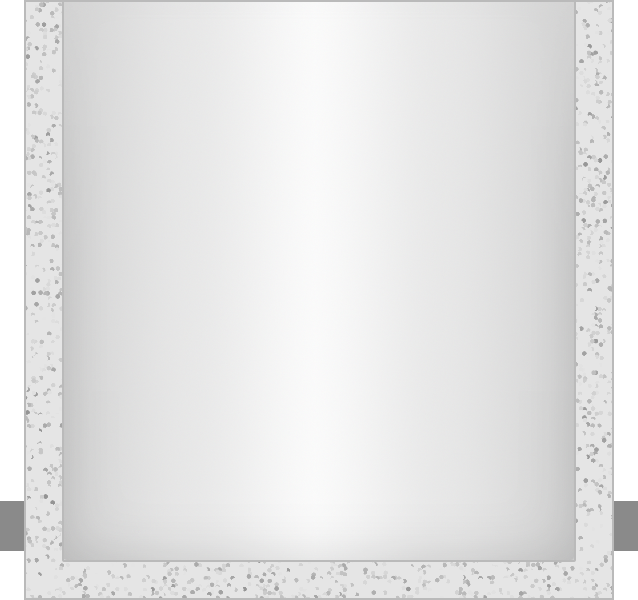
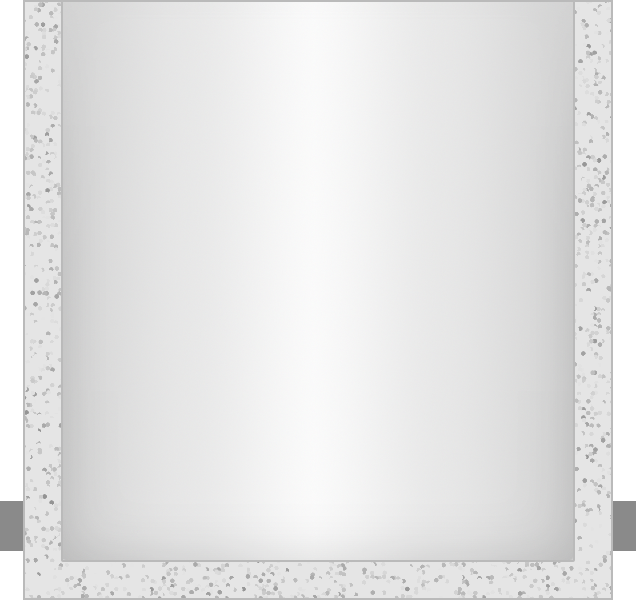
Draggable tank lid

diff --git a/states-of-matter/src/js/views/particle-tank.js b/states-of-matter/src/js/views/particle-tank.js
@@ -17,8 +17,26 @@ define(function(require) {
      */
     var ParticleTankView = PixiView.extend({
 
+        events: {
+            'touchstart      .lid': 'dragStart',
+            'mousedown       .lid': 'dragStart',
+            'touchmove       .lid': 'drag',
+            'mousemove       .lid': 'drag',
+            'touchend        .lid': 'dragEnd',
+            'mouseup         .lid': 'dragEnd',
+            'touchendoutside .lid': 'dragEnd',
+            'mouseupoutside  .lid': 'dragEnd'
+        },
+
         initialize: function(options) {
+            options = _.extend({
+                lidDraggable: true
+            }, options);
+
             this.simulation = options.simulation;
+            this.lidDraggable = options.lidDraggable;
+
+            this._dragOffset = new PIXI.Point();
 
             this.initGraphics();
 
@@ -42,12 +60,16 @@ define(function(require) {
         },
 
         initLid: function() {
-            this.lidYRange = range({ min: -20, max: -20 - 255  });
+            this.lidYRange = range({ max: -20, min: -20 - 255  });
 
             this.lid = Assets.createSprite(Assets.Images.TANK_LID);
             this.lid.anchor.x = 0.5;
             this.lid.anchor.y = 1;
-            this.lid.y = this.lidYRange.max;
+            this.lid.y = this.lidYRange.min;
+            if (this.lidDraggable) {
+                this.lid.buttonMode = true;
+                this.lid.defaultCursor = 'ns-resize';
+            }
 
             this.displayObject.addChild(this.lid);
         },
@@ -55,7 +77,7 @@ define(function(require) {
         updateLidPosition: function() {
             var relativeHeight = this.simulation.get('particleContainerHeight') / Constants.CONTAINER_BOUNDS.height;
             
-            this.lid.y = this.lidYRange.lerp(relativeHeight);
+            this.lid.y = this.lidYRange.lerp(1 - relativeHeight);
         },
 
         getLeftConnectorPosition: function() {
@@ -68,7 +90,33 @@ define(function(require) {
             return this._rightConnectorPosition
                 .set(this.displayObject.x, this.displayObject.y)
                 .add(this.displayObject.width / 2, -37);
-        }
+        },
+
+        dragStart: function(data) {
+            if (!this.lidDraggable)
+                return;
+
+            this.dragOffset = data.getLocalPosition(this.lid, this._dragOffset);
+            this.dragging = true;
+        },
+
+        drag: function(data) {
+            if (this.dragging) {
+                var local = data.getLocalPosition(this.displayObject, this._dragLocation);
+                var y = local.y - this.dragOffset.y;
+                
+                if (y > this.lidYRange.max)
+                    y = this.lidYRange.max;
+                if (y < this.lidYRange.min)
+                    y = this.lidYRange.min;
+                    
+                this.lid.y = y;
+            }
+        },
+
+        dragEnd: function(data) {
+            this.dragging = false;
+        },
 
     });
 

diff --git a/states-of-matter/src/js/views/scene.js b/states-of-matter/src/js/views/scene.js
@@ -48,7 +48,7 @@ define(function(require) {
                 simulation: this.simulation
             });
             this.particleTankView.displayObject.y = y;
-            this.particleTankView.displayObject.x = this.width * 0.3;
+            this.particleTankView.displayObject.x = Math.floor(this.width * 0.3);
             this.stage.addChild(this.particleTankView.displayObject);
         },
 
@@ -58,7 +58,6 @@ define(function(require) {
             });
 
             var connectorPosition = this.particleTankView.getLeftConnectorPosition();
-            console.log(connectorPosition);
             this.pressureGaugeView.displayObject.x = connectorPosition.x;
             this.pressureGaugeView.displayObject.y = connectorPosition.y;
 
